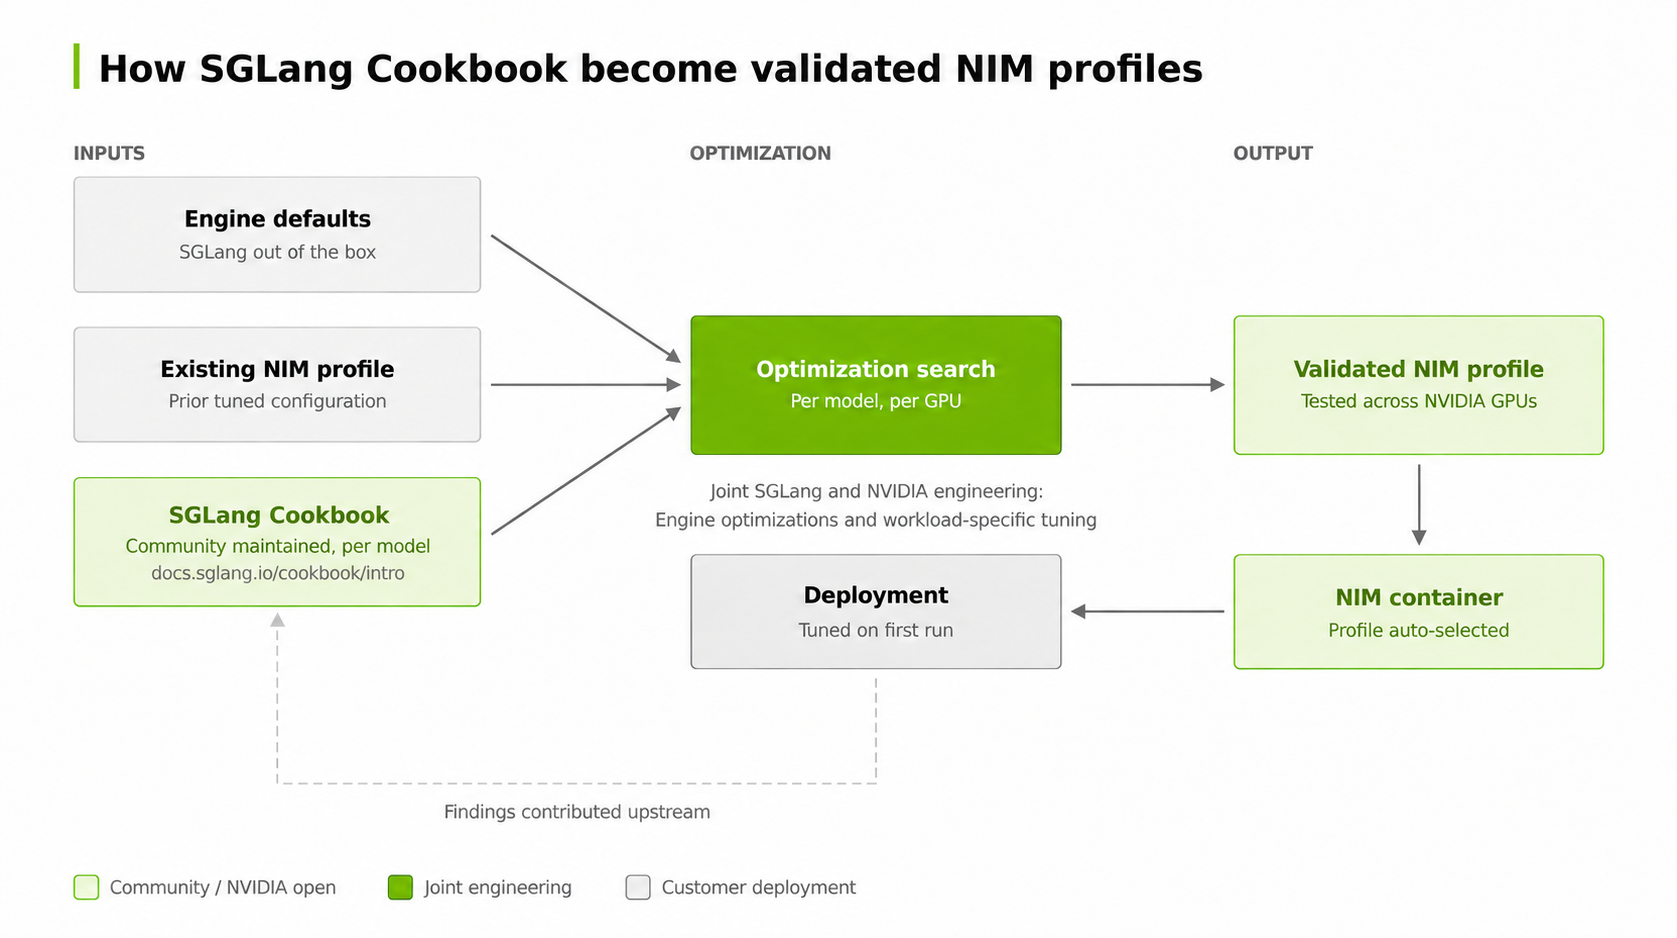
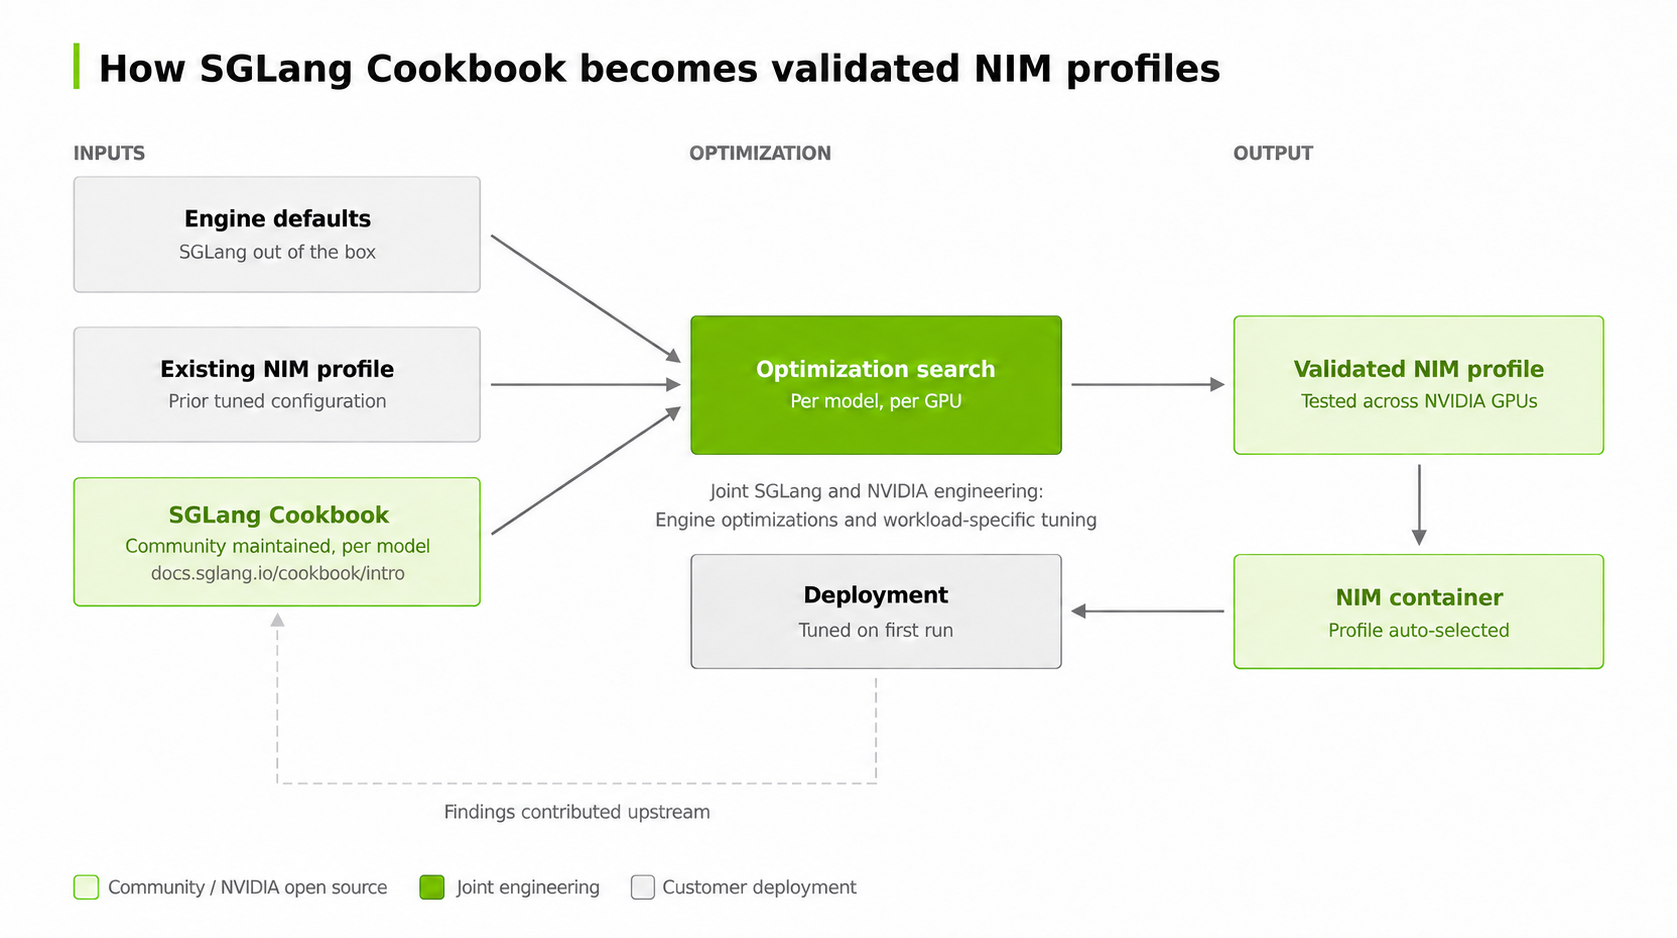
[Blog] Clarify SGLang and NVIDIA NIM post and diagram (#473)
* Polish SGLang and NVIDIA NIM blog wording and diagram labels

* Restore original adoption sentence per review

diff --git a/blog/2026-11-13-sglang-nvidia-nim.md b/blog/2026-11-13-sglang-nvidia-nim.md
@@ -18,13 +18,13 @@ SGLang's breadth is an important starting point. Its support for diverse models 
 
 That validation connects compatibility to practical deployment decisions. Developers need to know which configurations have been tested for their model, which hardware they require, and what performance to expect. NIM documents verified configurations and optimized profiles, giving teams a concrete starting point for deployment. *Ref: [NIM support matrix](https://docs.nvidia.com/nim/large-language-models/latest/reference/support-matrix.html)*
 
-Performance is another central part of the collaboration. SGLang provides a high-performance foundation through capabilities such as Unified Radix Cache and Breakable CUDA Graph. NIM builds on that foundation by tuning selected models and configurations for user workloads. The objective is to make strong tokens-per-second-per-GPU performance accessible in the configurations users actually deploy. *Ref: [SGLang documentation](https://docs.sglang.io/), [NIM performance validation](https://docs.nvidia.com/nim/large-language-models/latest/about-nim-llm/enterprise-grade.html)*
+Performance is another central part of the collaboration. SGLang provides a high-performance foundation through capabilities such as Unified Radix Cache and Breakable CUDA Graph. NIM builds on that foundation by tuning selected models and configurations for user workloads. The objective is to improve throughput, measured in tokens per second per GPU, for the configurations users actually deploy. *Ref: [SGLang documentation](https://docs.sglang.io/), [NIM performance validation](https://docs.nvidia.com/nim/large-language-models/latest/about-nim-llm/enterprise-grade.html)*
 
 Achieving that objective requires attention to the workload. An interactive assistant has different latency requirements from a batch generation service, while applications processing long documents place different demands on the system than applications generating long responses. NIM's workload-specific tuning and packaged profiles help translate engine capabilities into useful deployment choices. For supported model-specific offerings, users can start with curated settings and hardware-aware profile selection. *Ref: [NIM model profiles](https://docs.nvidia.com/nim/large-language-models/latest/deployment/model-profiles-and-selection.html)*
 
 ![How SGLang Cookbook recipes become validated NIM profiles: engine defaults, existing NIM profiles and SGLang Cookbook feed an optimization search, producing validated NIM profiles and containers, with findings contributed upstream](/images/blog/sglang-nvidia-nim/cookbook-to-nim-profiles.png)
 
-The same approach applies to the developer experience. SGLang's flexibility gives engineers room to explore model behavior, serving features, and runtime configurations. NIM developers use that flexibility to assemble an experience that works out of the box for supported configurations, while preserving access to engine settings for teams with specialized requirements. Users gain a simpler starting point and room to customize as their needs become more sophisticated. *Ref: [NIM configuration documentation](https://docs.nvidia.com/nim/large-language-models/latest/reference/advanced-configuration.html)*
+The same approach applies to the developer experience. SGLang's flexibility gives engineers room to explore model behavior, serving features, and runtime configurations. NIM developers use that flexibility to assemble an experience that runs with the supplied settings on supported configurations. Teams with specialized requirements retain access to engine settings. Users gain a simpler starting point and room to customize as their needs become more sophisticated. *Ref: [NIM configuration documentation](https://docs.nvidia.com/nim/large-language-models/latest/reference/advanced-configuration.html)*
 
 SGLang also brings an established foundation for production serving. NIM adds enterprise security maintenance on top, including vulnerability scanning and remediation, alongside validated releases and support through NVIDIA AI Enterprise. This ongoing maintenance helps enterprise teams manage the software throughout its deployment lifecycle. Enterprise support is optional and available with an active [NVIDIA AI Enterprise subscription](https://docs.nvidia.com/ai-enterprise/planning-resource/licensing-guide/latest/licensing.html). *Ref: [NIM enterprise capabilities](https://docs.nvidia.com/nim/large-language-models/latest/about-nim-llm/enterprise-grade.html), [NIM support offerings](https://docs.nvidia.com/nim/large-language-models/latest/about-nim-llm/nim-offerings.html)*
 
